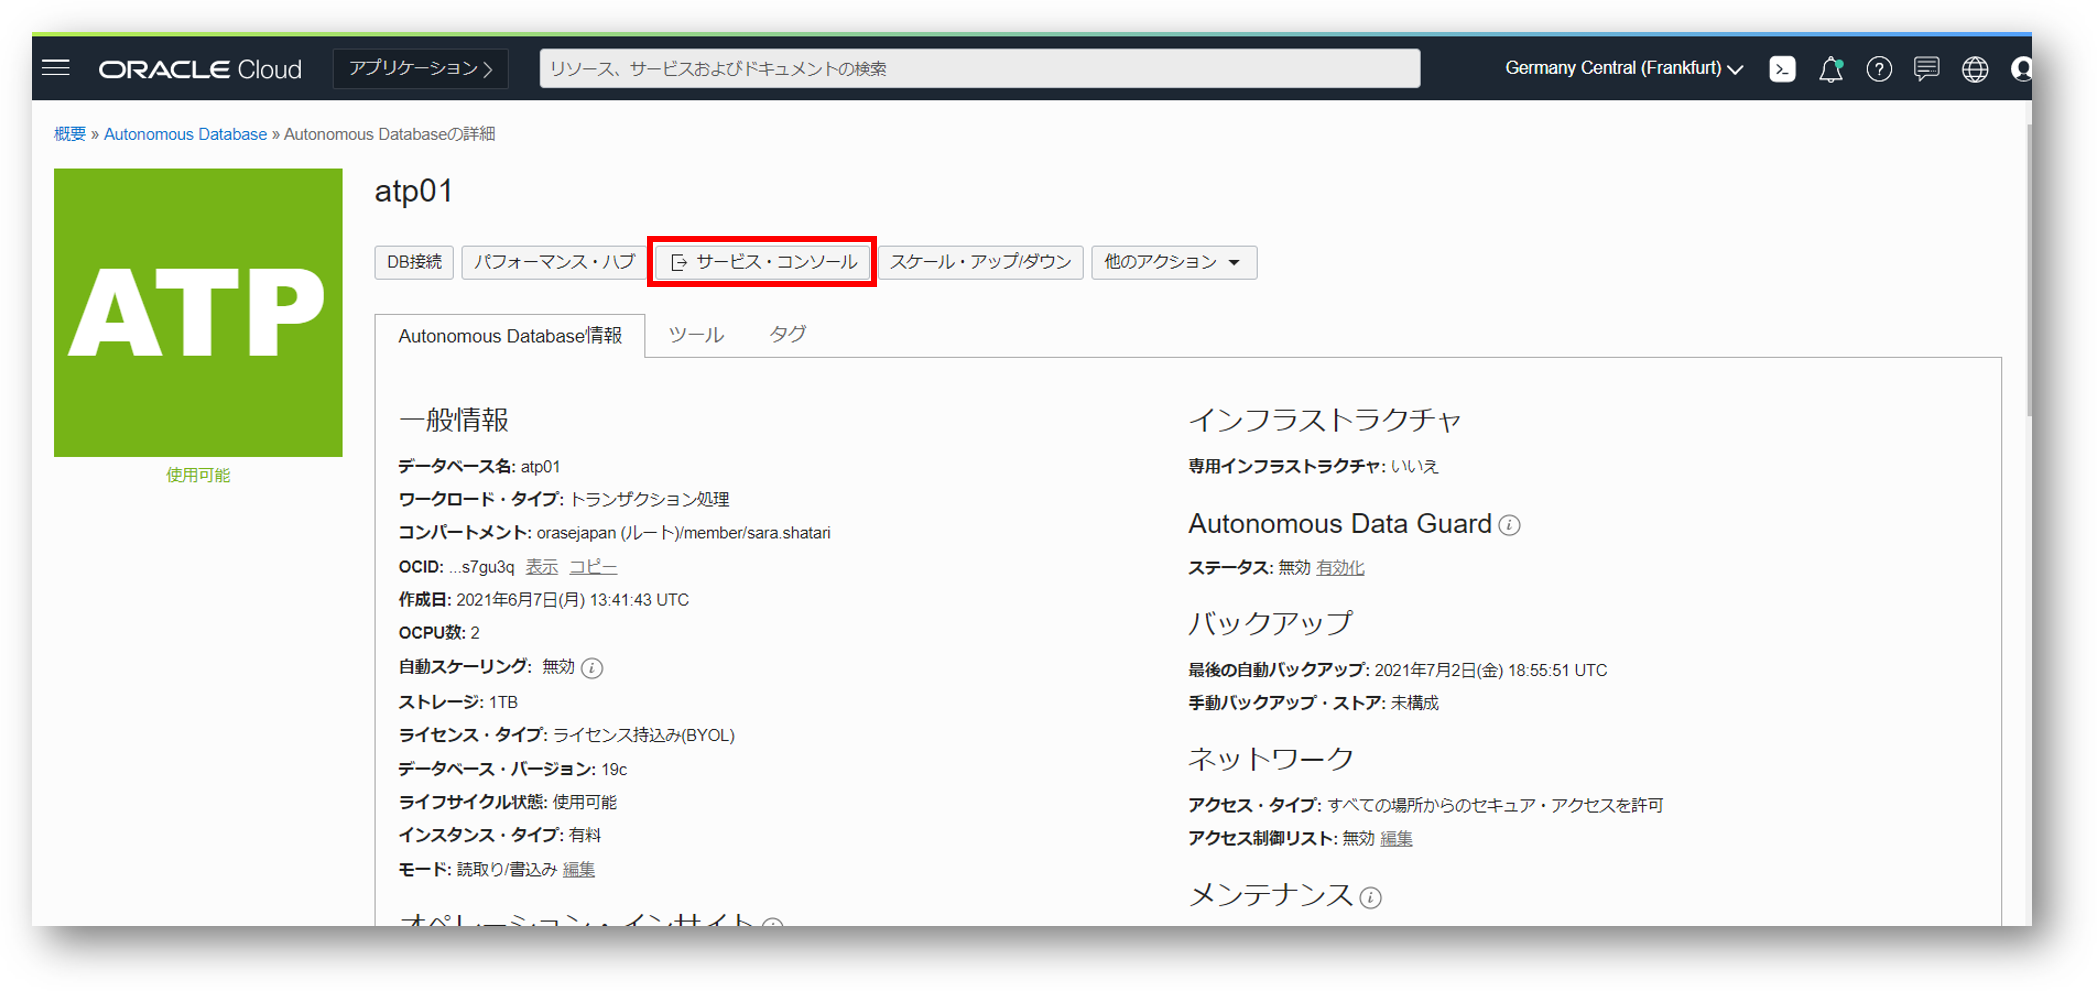
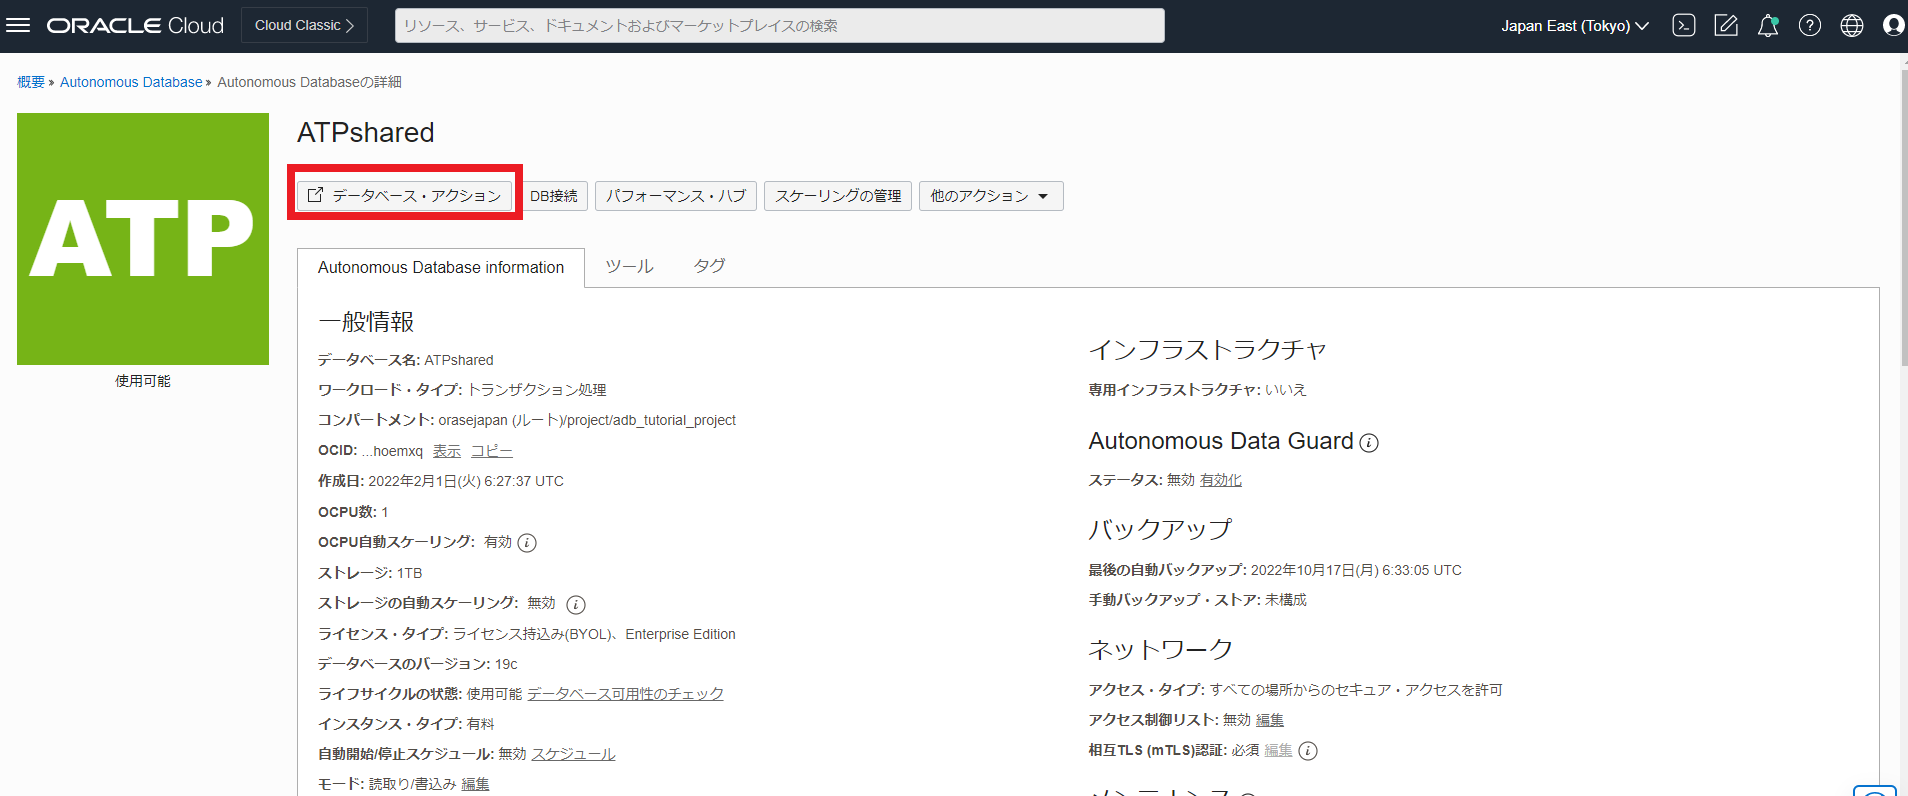
adb201, 203, 302リンク切れ、説明、スクショ等修正

Changed region(s): [[0.0, 0.0, 1.0, 1.0]]

diff --git a/tutorials/_database/adb201-service-names.md b/tutorials/_database/adb201-service-names.md
@@ -26,7 +26,7 @@ Autonomous Database では、事前に定義済の接続サービスが用意さ
 **目次：**
 
 - [1. 接続サービスとは？](#anchor1)
-- [2. サービス・コンソールのResource Managerの設定画面にアクセスしよう](#anchor2)
+- [2. Database ActionsのResource Managerの設定画面にアクセスしよう](#anchor2)
 - [3. CPU/IOの優先度の変更しよう](#anchor3)
 - [4. 処理時間/利用IOの上限を設定しよう](#anchor4)
 - [5. 同時実行セッション数の制限が変更できることを確認しよう](#anchor5)
@@ -148,9 +148,10 @@ Autonomous Database では、事前に定義済の接続サービスが用意さ
 
 <a id="anchor2"></a>
 
-# 2. サービス・コンソールのResource Managerの設定画面にアクセスしよう
+# 2. Database ActionsのResource Managerの設定画面にアクセスしよう
 
-**`サービス・コンソール`** は、ADBのパフォーマンスの管理および監視を行うツールです。
+Database Actionsは、ADBにビルトインされているツールで、データベースオブジェクトの管理、SQLなど様々な操作を実行できるツールです。
+その他にもADBのパフォーマンスの管理および監視も行えます。
 <br>管理面では、ウォレットのダウンロードや管理者パスワードの変更などができ、監視面ではADBのアクティビティやCPU使用率などを監視することができます。
 
 その中の、管理機能の一つである「**`リソース管理ルールの設定`**」という項目では、リソースマネージャの設定変更を行うことができます。
@@ -160,13 +161,13 @@ Autonomous Database では、事前に定義済の接続サービスが用意さ
   - 接続サービス間の優先度の調整
   - 同時実行セッション数の調整
 
-まずは、設定変更を行うためサービスコンソールにアクセスします。
+まずは、設定変更を行うためDatabase Actionsにアクセスします。
 
-1. サービス・コンソールをクリックします。
+1. Database Actionsをクリックします。
 
     ![img1_1.png](img1_1.png)
 
-2. **`管理`** から **`リソース管理ルールの設定`** をクリックします。
+2. **`管理`** の **`リソース管理ルールの設定`** をクリックします。
 
     ![img1_2.png](img1_2.png)
 
